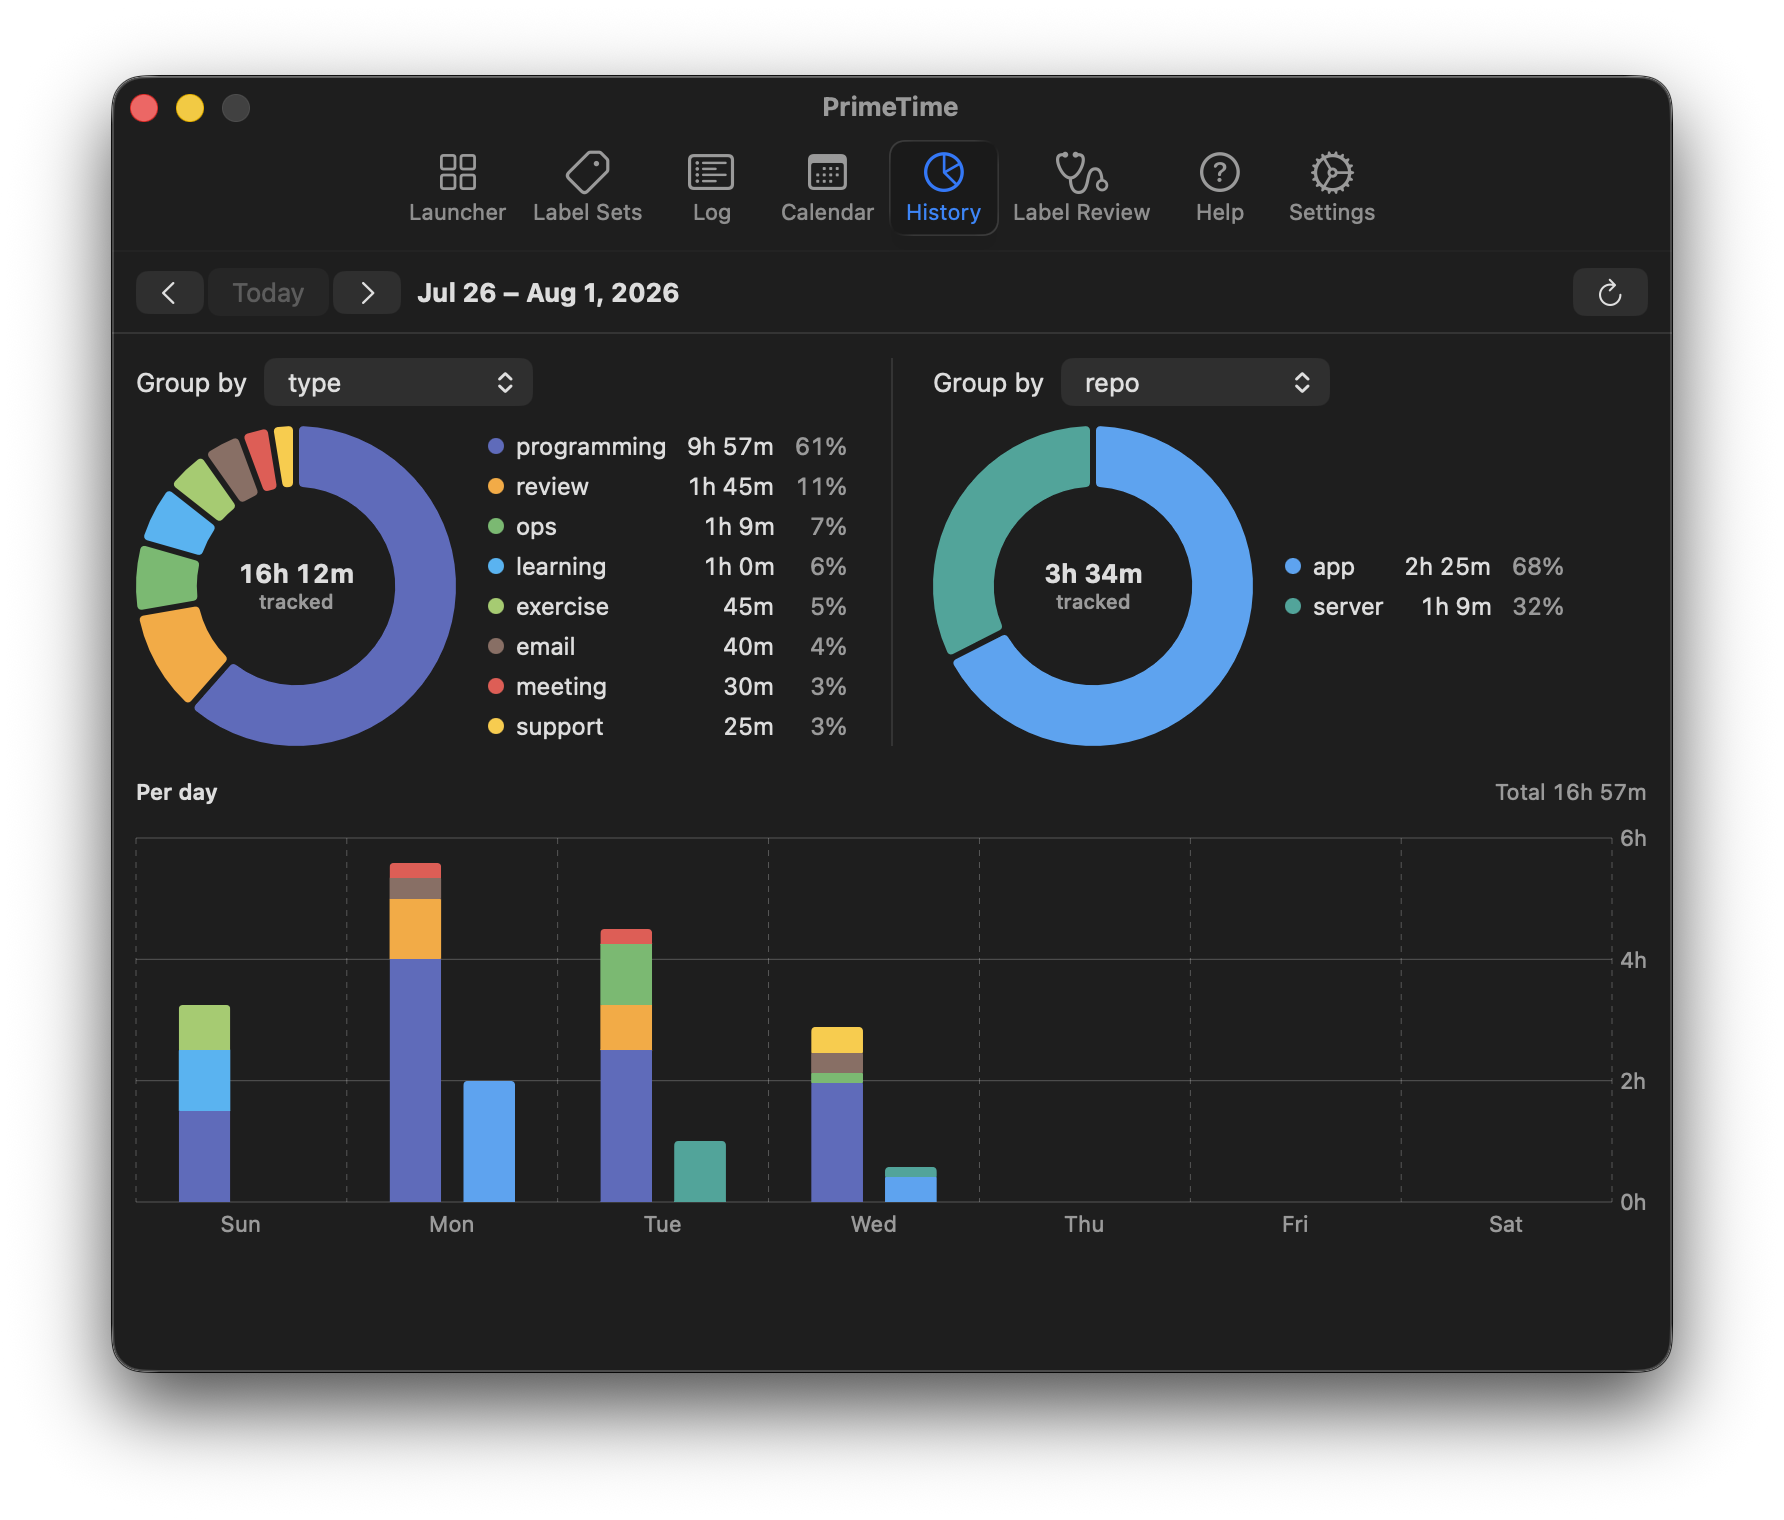
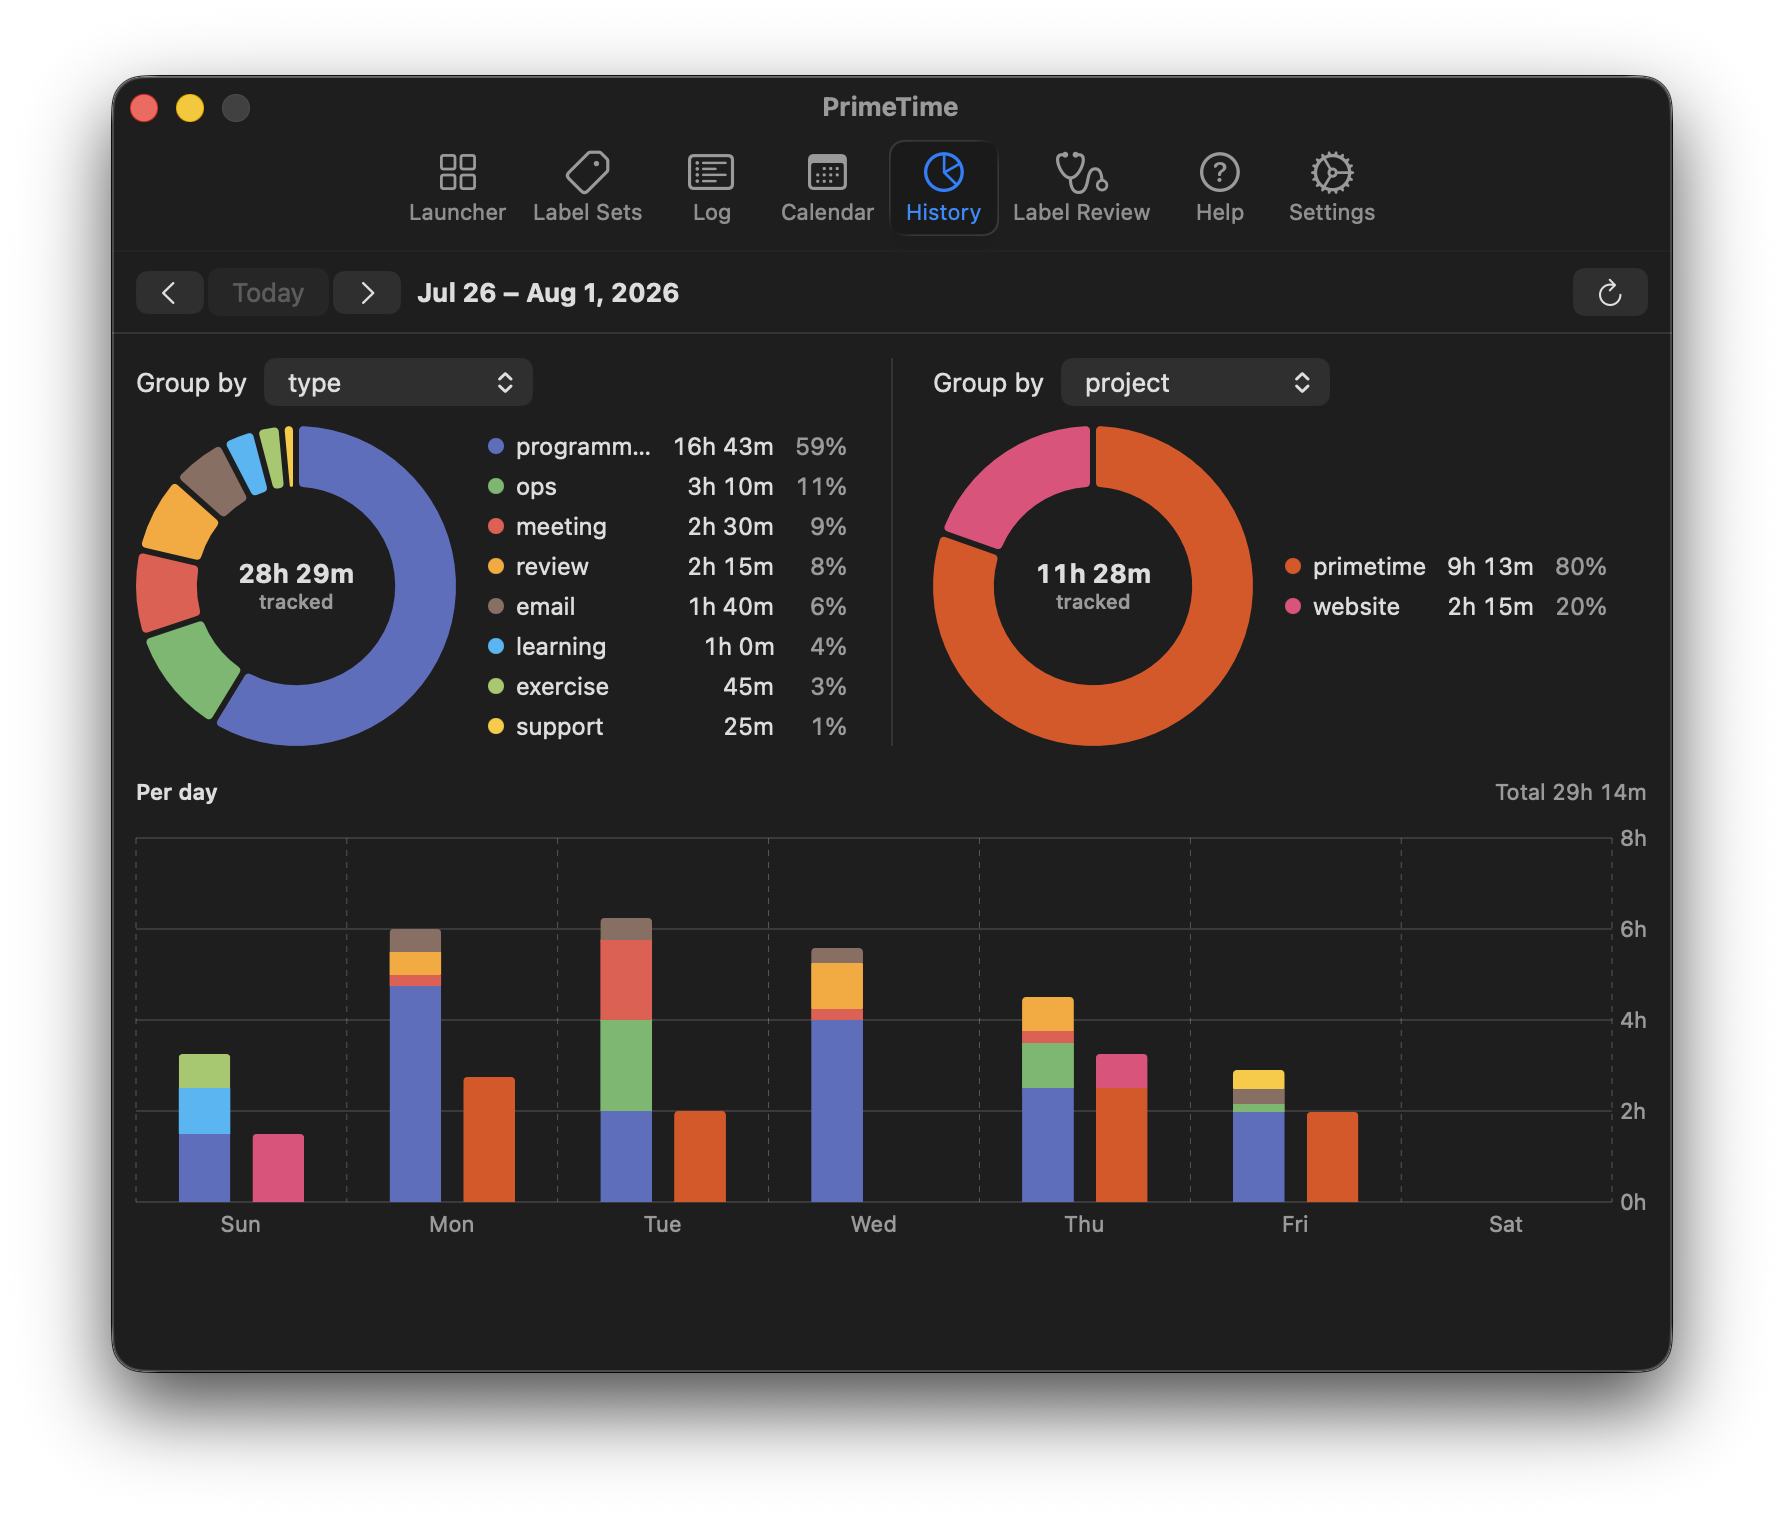
README: animated popover hero, trim gallery to three views (#102)
Fresh demo-mode capture pass for the README (companion to primetime-website#22).

- **Hero is now motion**: `popover.gif` (640px, 12fps, 1.9 MB) — the popover opens, quick-start rows reveal their quick labels on hover, and a running timer gets stopped.
- **Gallery trimmed 6 → 3**: keeps Log, History, and Label Review; Launcher / Calendar / Label Sets move to a one-line pointer at [primetime.tools/features](https://primetime.tools/features), which now tours every surface with the same capture batch.
- **History screenshot upgraded**: now actually shows the side-by-side comparison grouping (type vs project) that the caption describes.
- All stills re-captured from today's build in demo mode on macbook-air.

Co-committed-by: Steven Fitzpatrick <steven@fitz.gg>

diff --git a/README.md b/README.md
@@ -20,7 +20,7 @@ Or download the latest notarized build from [GitHub releases](https://github.com
 Requires macOS 14 (Sonoma) or later on Apple silicon.
 
 <p align="center">
-  <img src="readme-images/drop-down.png" alt="PrimeTime menu-bar popover with two running timers and quick-start label sets" width="400">
+  <img src="readme-images/popover.gif" alt="The PrimeTime menu-bar popover: two running timers, quick-start rows revealing quick labels on hover, and a timer being stopped" width="400">
 </p>
 
 ## Time, measured on your terms
@@ -50,35 +50,17 @@ partial export can't pass for a full backup.
 
 ## A look inside
 
-### Launcher
-
-Saved label sets as one-click cards — icons and colors for the way you actually organize work. Sets that are already running light up.
-
-![Launcher grid with colored label-set cards](readme-images/launcher.png)
-
 ### Log
 
 An editable record of your time: days, entries, notes, and running totals — nothing hidden. Adjust start/end times, labels, and notes after the fact.
 
 ![Log view grouped by day with color-coded labels, notes, and totals](readme-images/log-view.png)
 
-### Calendar
-
-Your week laid out hour by hour. Overlapping timers share columns, so multi-tasking is visible instead of hidden.
-
-![Calendar week view with color-coded, overlapping timespans](readme-images/calendar-view.png)
-
 ### History
 
-Donut and per-day charts over any grouping — and a second grouping to compare against, so "time by type" and "time by repo" sit side by side.
+Donut and per-day charts over any grouping — and a second grouping to compare against, so "time by type" and "time by project" sit side by side.
 
-![History view comparing time grouped by type against time grouped by repo](readme-images/history-view.png)
-
-### Label Sets
-
-Define the sets behind the launcher cards and the popover's quick start: a name, an icon, and the `key: value` pairs to apply. Colors are saved per key, with per-value overrides.
-
-![Label set editor with launcher icon picker and key:value rows](readme-images/label-sets.png)
+![History view comparing time grouped by type against time grouped by project](readme-images/history-view.png)
 
 ### Label Review
 
@@ -86,9 +68,11 @@ Vocabulary drifts — one week says `project`, a stray day says `proj`. Label Re
 
 ![Label Review listing label keys with usage counts and total time](readme-images/label-review.png)
 
+There's more — a launcher of one-click label-set cards, a calendar where overlapping timers share columns, and an interactive onboarding that teaches the label model. See every surface in motion at [primetime.tools/features](https://primetime.tools/features).
+
 ## Try it: Demo Mode
 
-Every screenshot above is Demo Mode — a seeded, throwaway copy of the app's data with a week of realistic history and two running timers. It can't touch real data: it lives in its own `demo.sqlite` (rebuilt on every launch) and a scratch settings domain.
+Every capture above is Demo Mode — a seeded, throwaway copy of the app's data with a week of realistic history and two running timers. It can't touch real data: it lives in its own `demo.sqlite` (rebuilt on every launch) and a scratch settings domain.
 
 ```sh
 git clone <this repo>
